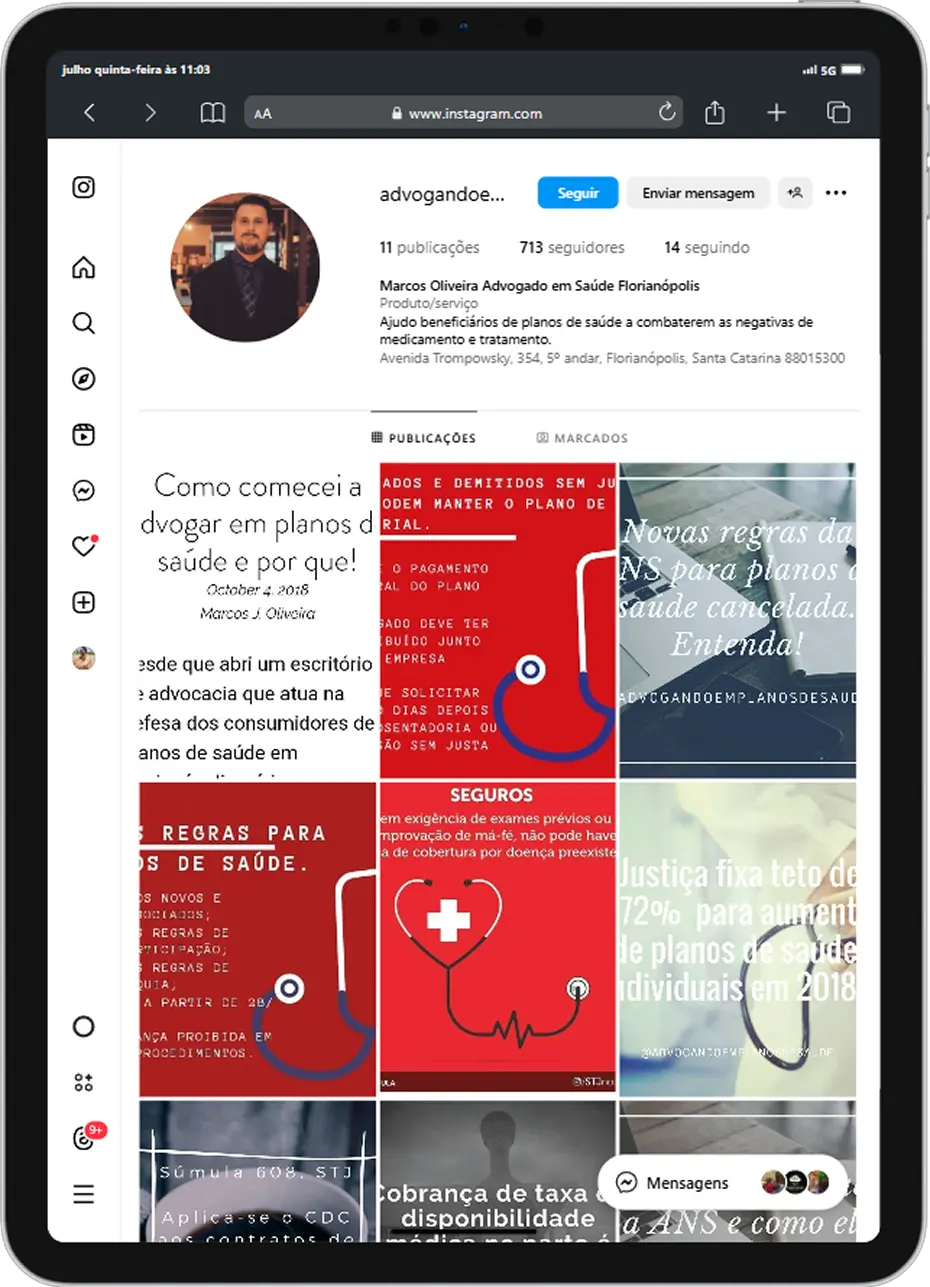
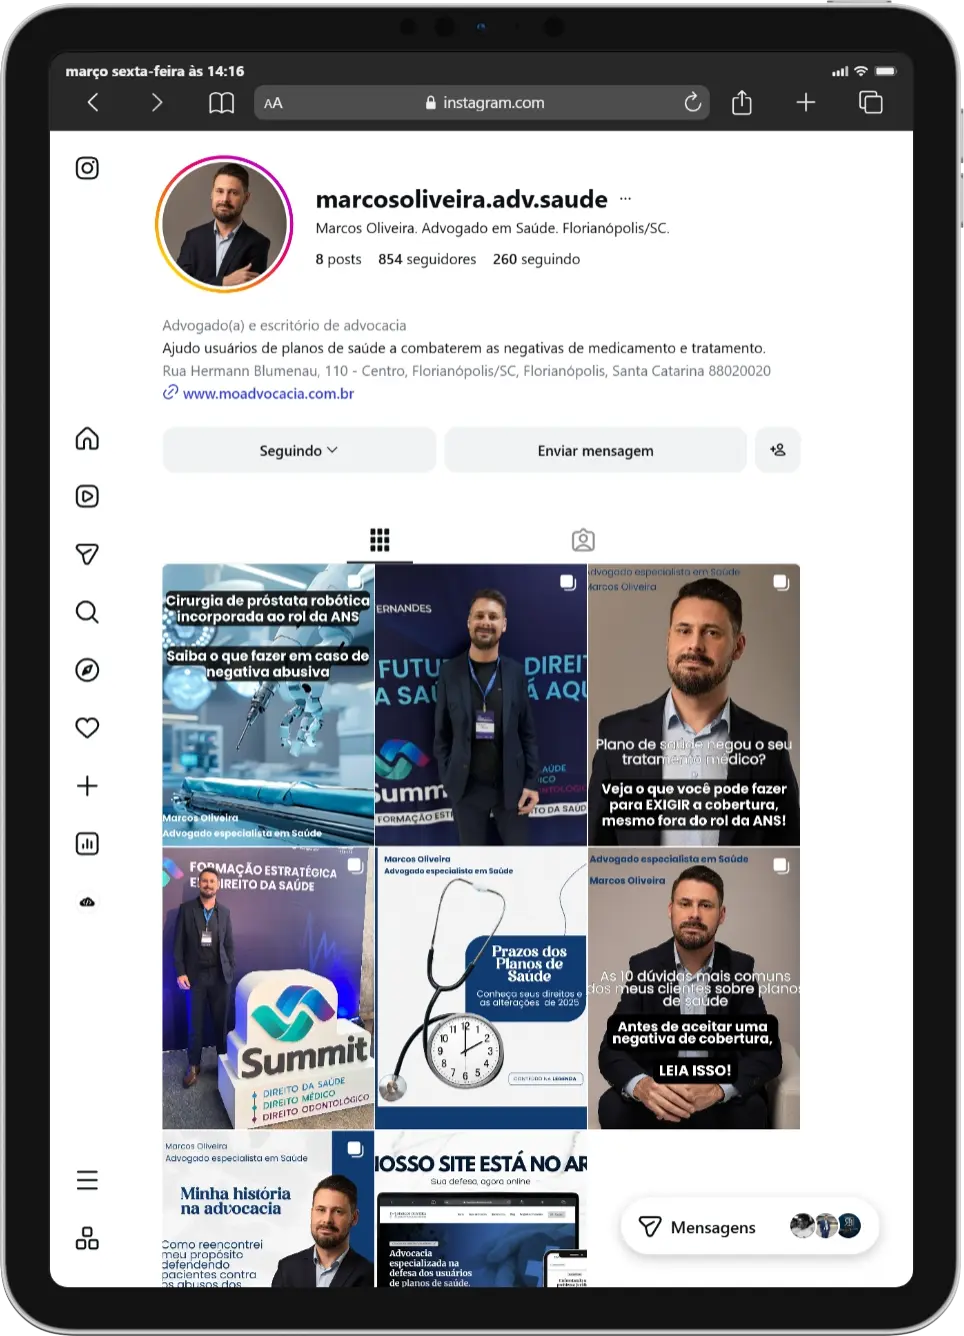
fix: Ajustes

diff --git a/src/content/content.jsx b/src/content/content.jsx
@@ -75,10 +75,11 @@ export const infos = {
   endereco: (
     <div>
       <p>Endereço:</p>
-      <p>Av. Trompowsky,</p>
-      <p>nº 354 - 5º andar - Centro,</p>
-      <p>Florianópolis - SC, </p>
-      <p>CEP: 88015-300</p>
+      <p>R. Hermann Blumenau,</p>
+      <p>110 - Impact Hub Floripa,</p>
+      <p>Bewiki Work - Centro,</p>
+      <p>Florianópolis - SC,</p>
+      <p>CEP: 88020-020</p>
     </div>
   ),
   enderecoSecundario: (
@@ -97,7 +98,7 @@ export const infos = {
     </div>
   ),
   obs: <span className="italic">A Definir</span>,
-  instagramProfile: "advogandoemplanosdesaude", // Sem o @
+  instagramProfile: "marcosoliveira.adv.saude", // Sem o @
   facebookProfile: "A_Definir",
   linkeDinProfile: "A_Definir",
   x: "A_Definir",
@@ -424,7 +425,7 @@ const content = {
       subtitle:
         "Visite nosso endereço e confira no mapa abaixo como chegar facilmente.",
       embedsrc:
-        "https://www.google.com/maps/embed?pb=!1m18!1m12!1m3!1d3121.798258814393!2d-48.54785629999999!3d-27.5874444!2m3!1f0!2f0!3f0!3m2!1i1024!2i768!4f13.1!3m3!1m2!1s0x95273923891ebff5%3A0x991d21ebf302d8a2!2sMarcos%20Oliveira%20Advocacia!5e1!3m2!1spt-BR!2sbr!4v1752693911629!5m2!1spt-BR!2sbr",
+        "https://www.google.com/maps/embed?pb=!1m18!1m12!1m3!1d3535.97550574763!2d-48.54567999999999!3d-27.594289!2m3!1f0!2f0!3f0!3m2!1i1024!2i768!4f13.1!3m3!1m2!1s0x952739de59c8f87f%3A0x60e3dd867e299df4!2sImpact%20Hub%20Floripa%20Bewiki!5e0!3m2!1spt-BR!2sbr!4v1774893257539!5m2!1spt-BR!2sbr",
     },
     about: {
       imagem: {
